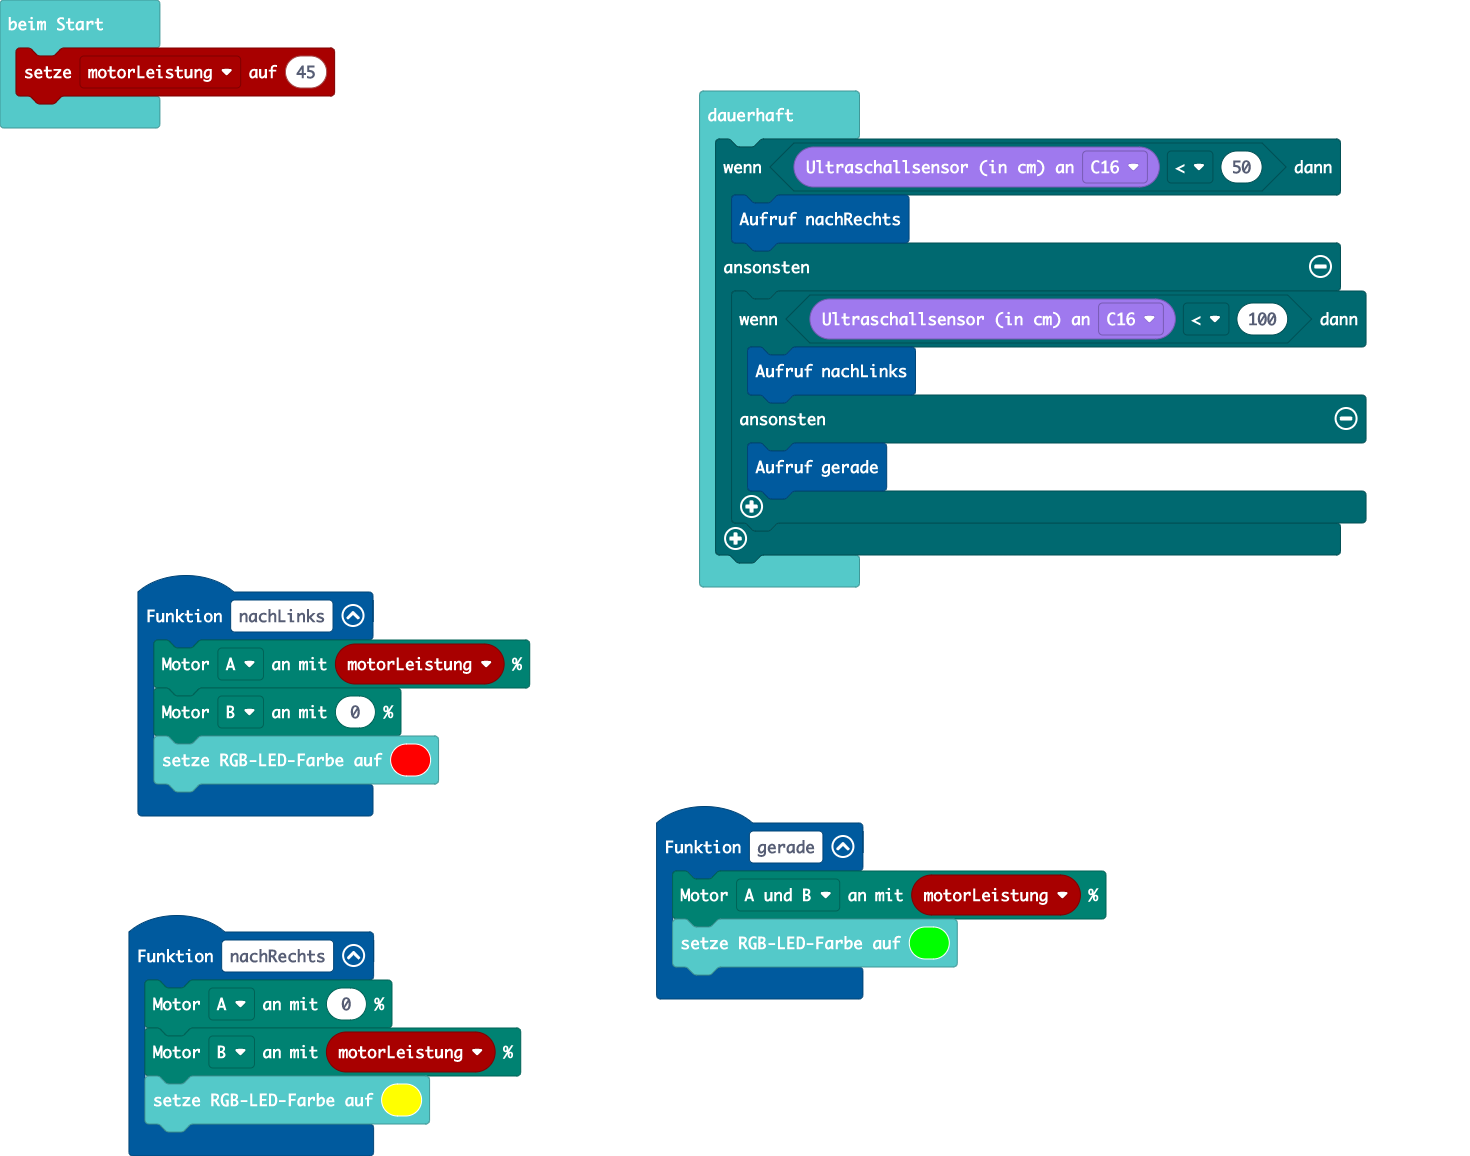
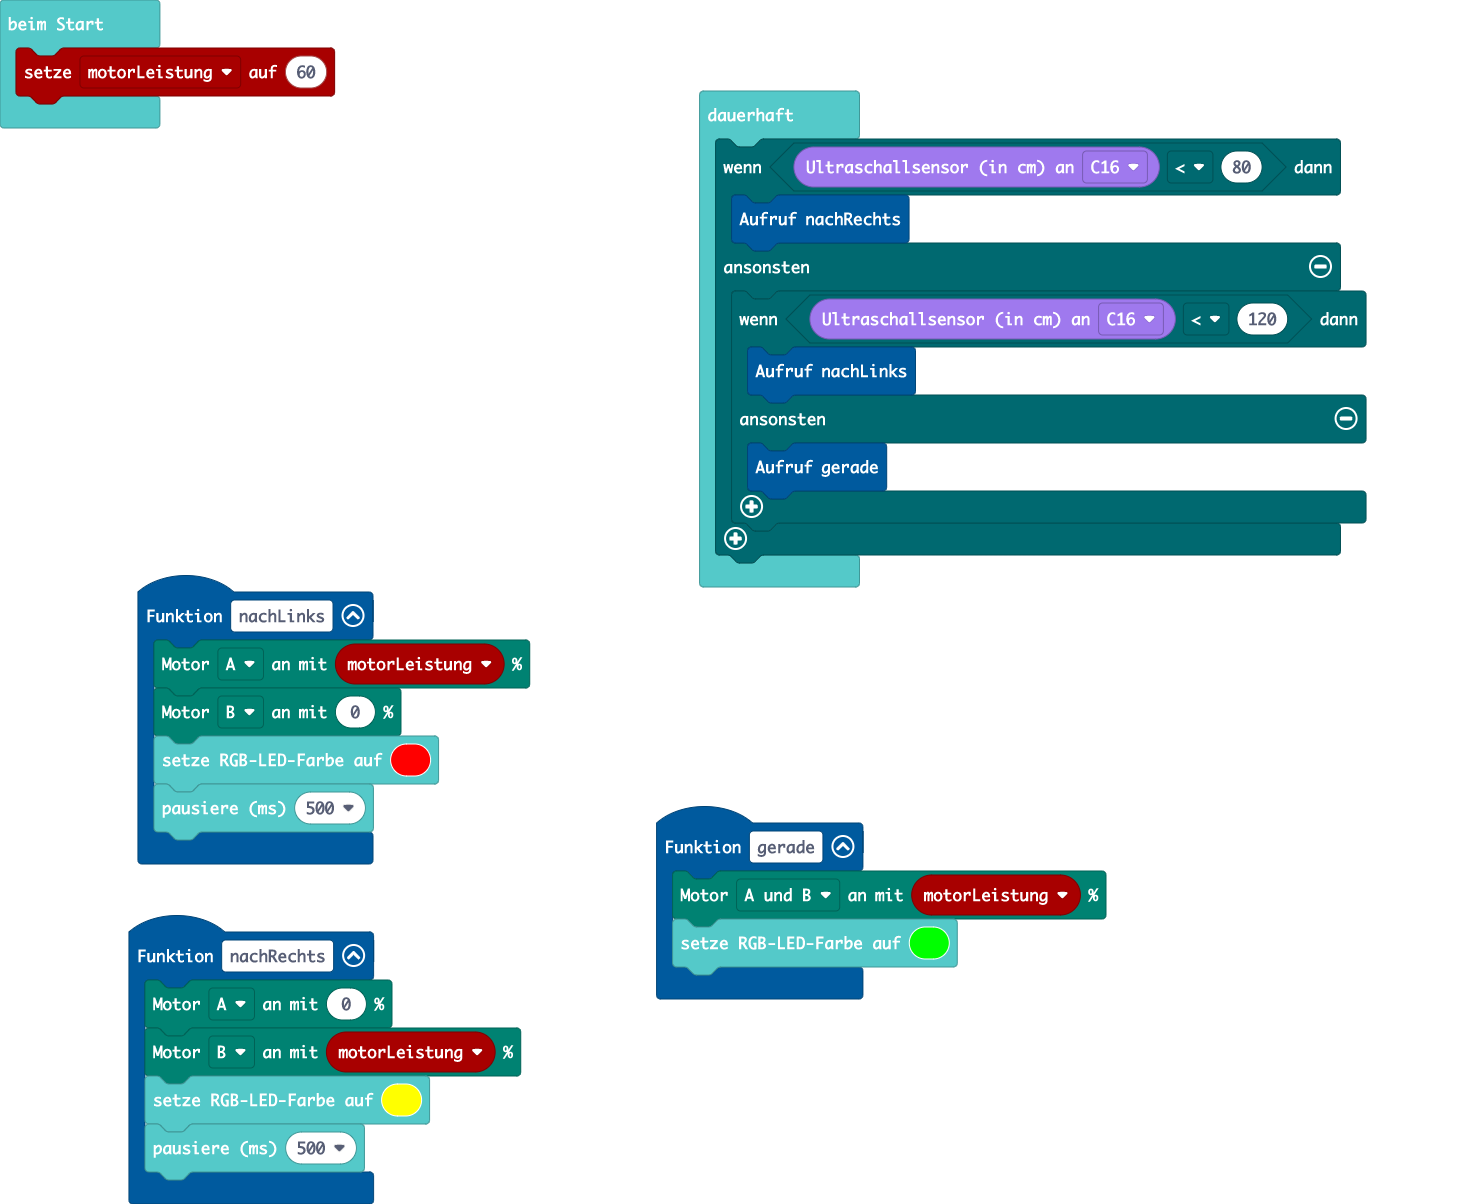
Aktualisiere main.blocks, main.ts

diff --git a/main.ts b/main.ts
@@ -6,19 +6,21 @@ function nachLinks () {
     motors.dualMotorPower(Motor.A, motorLeistung)
     motors.dualMotorPower(Motor.B, 0)
     basic.setLedColor(0xff0000)
+    basic.pause(500)
 }
 function nachRechts () {
     motors.dualMotorPower(Motor.A, 0)
     motors.dualMotorPower(Motor.B, motorLeistung)
     basic.setLedColor(0xffff00)
+    basic.pause(500)
 }
 let motorLeistung = 0
-motorLeistung = 45
+motorLeistung = 60
 basic.forever(function () {
-    if (grove.measureInCentimeters(DigitalPin.C16) < 50) {
+    if (grove.measureInCentimeters(DigitalPin.C16) < 80) {
         nachRechts()
     } else {
-        if (grove.measureInCentimeters(DigitalPin.C16) < 100) {
+        if (grove.measureInCentimeters(DigitalPin.C16) < 120) {
             nachLinks()
         } else {
             gerade()
